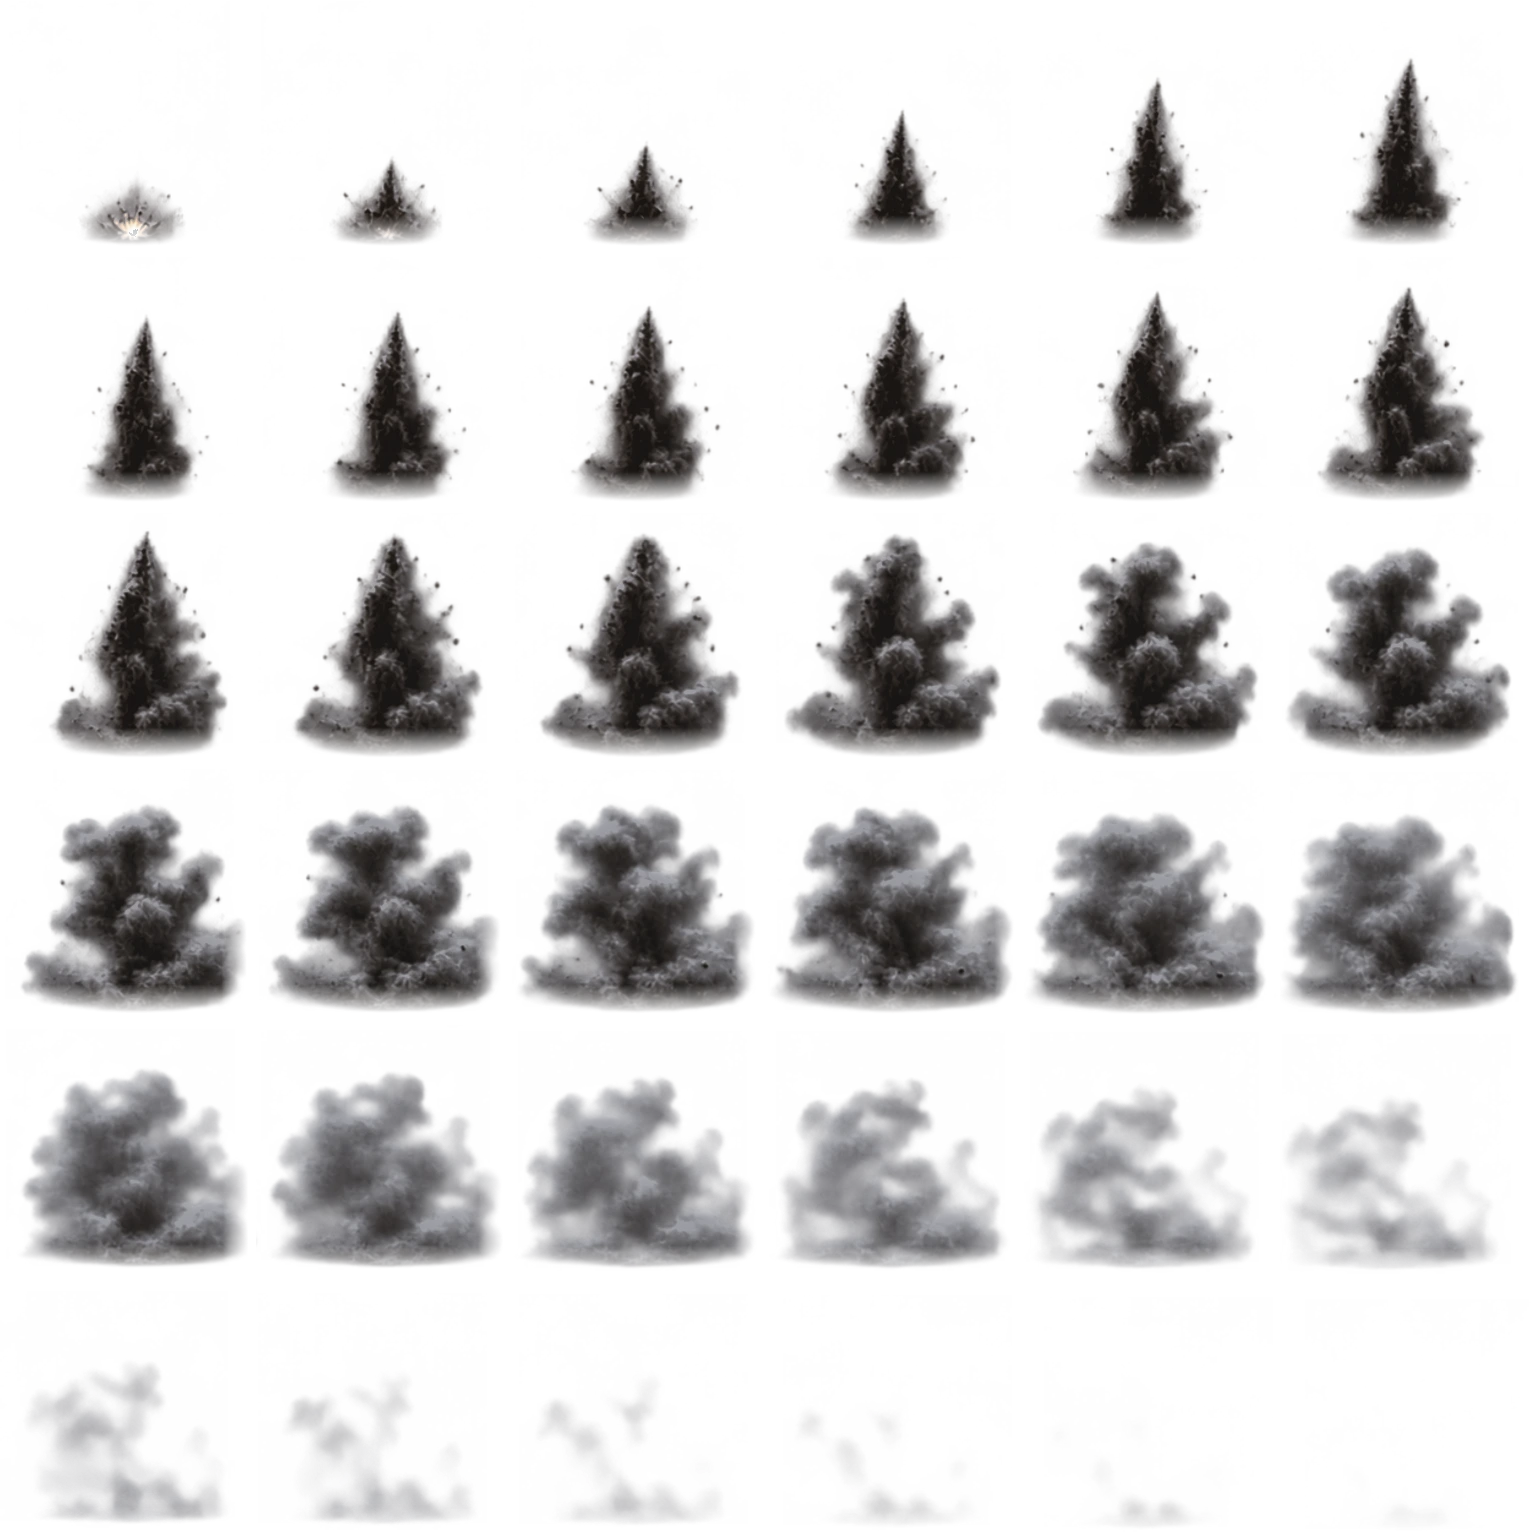
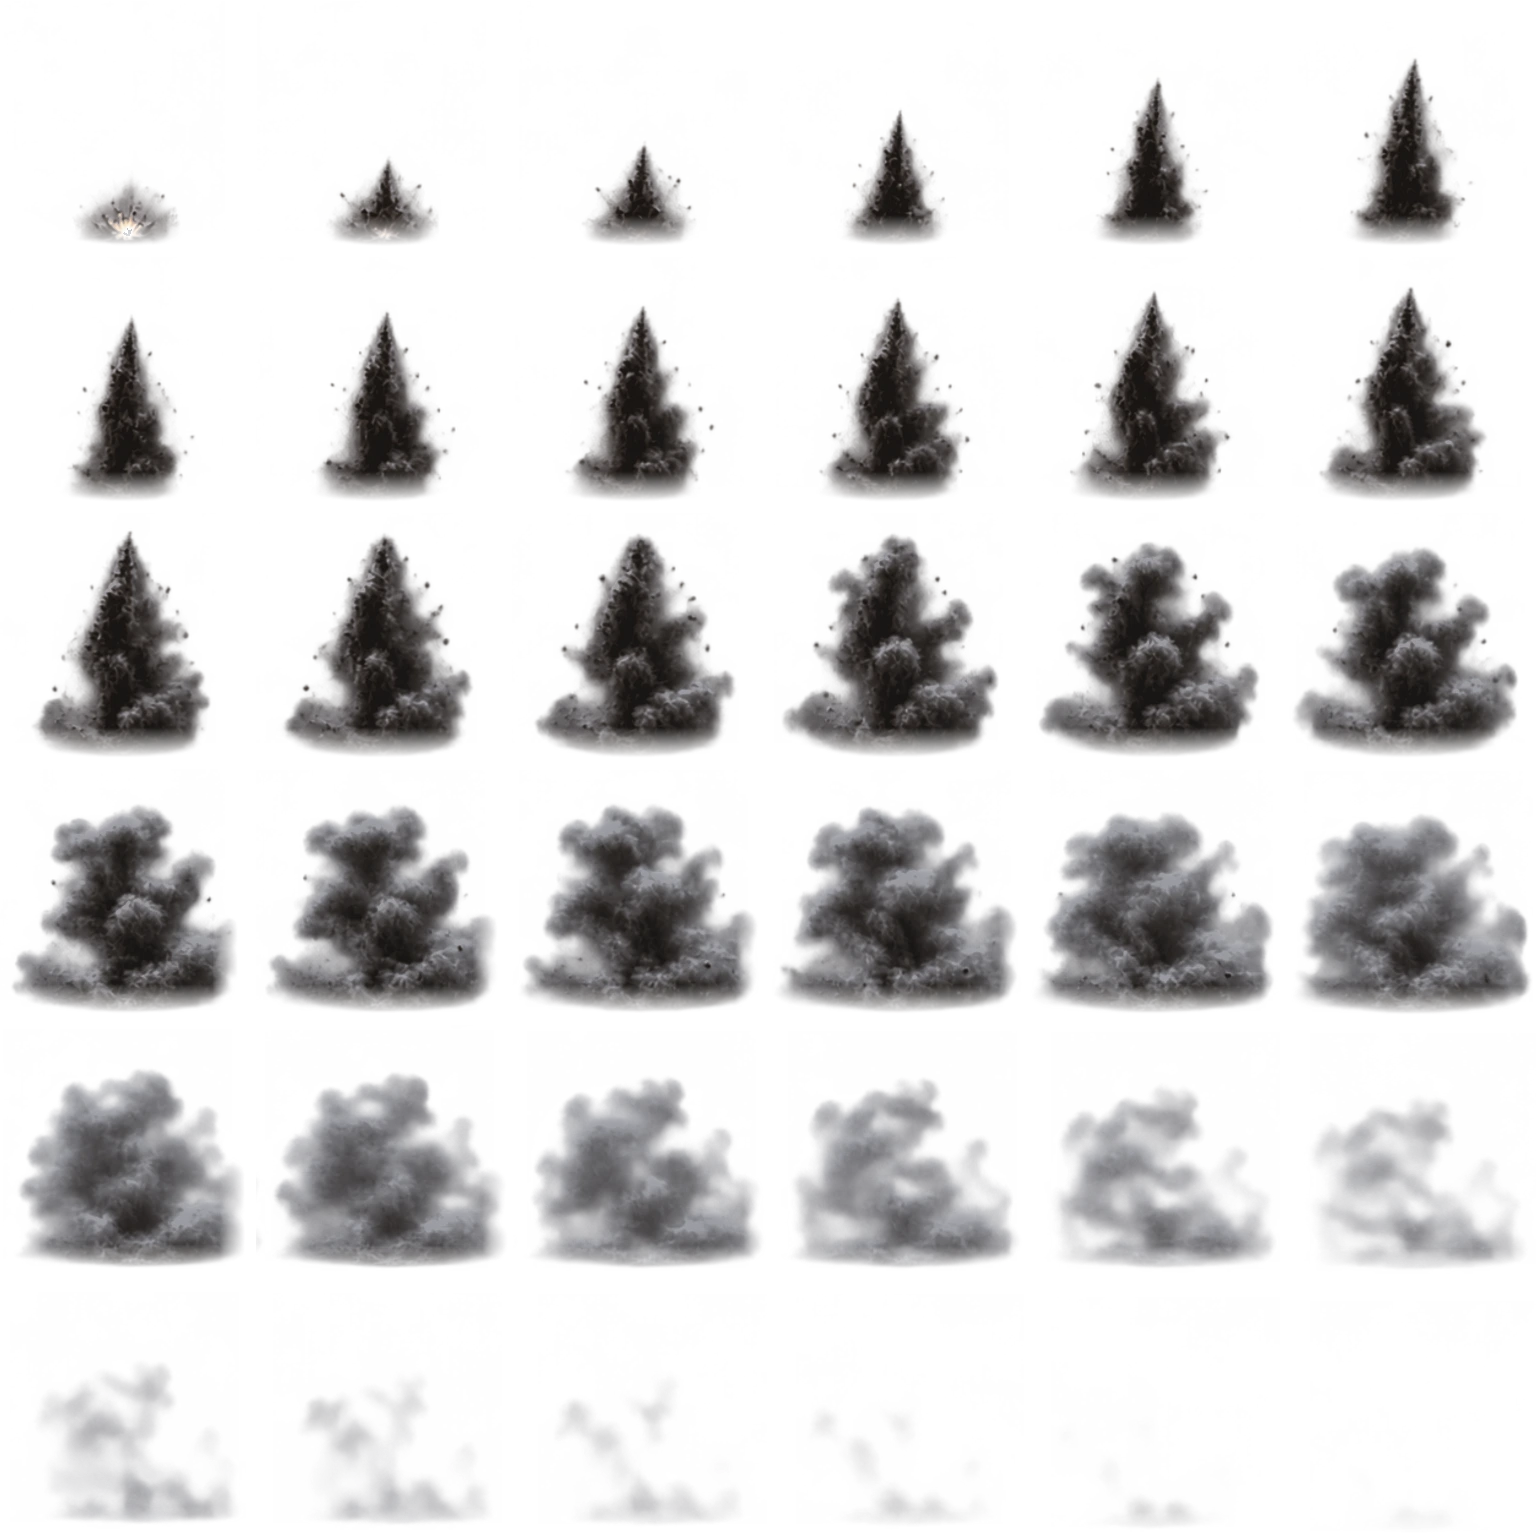
Smooth the impact animation: fix the source sawtooth, re-time, B-spline blending
Frame-by-frame analysis of the supplied sheet showed the cloud's horizontal
centre drifting 20-30 px left across each row of 6 frames and snapping back
at every row start (best neighbour shift +12 px at frames 5, 11, 17, 23, 29):
a sawtooth that read as jiggling stop motion.

- process-impact: centre every frame on its own alpha-weighted centre of
  mass (no smoothing, which re-introduced the row jumps); horizontal centre
  now 127.5 +/- 0.7 px for all frames, neighbour shifts 0-2 px
- Re-time the frames so each interval's length is proportional to how much
  its two frames actually differ, against a smoothed version of the original
  pace (burst/smoke envelope and total length kept); source times retained
- Blend in frame-index space with a cubic B-spline over four neighbours
  (weights sum to 1 and change smoothly through every frame)
- Verified by playing the animation at 30 fps: no spikes in frame-to-frame
  change, no horizontal jumps while visible

Claude-Session: https://claude.ai/code/session_01QRLYjet5i3xPK5hPmw42NL

diff --git a/src/render.js b/src/render.js
@@ -1540,21 +1540,31 @@ export class Renderer {
     const F = this.fx, M = F.meta, T = M.frameTimes, N = M.frameCount;
     const t = e.age;
     if (t >= M.duration) return;
-    let i = 0;
-    while (i < N - 1 && t >= T[i + 1]) i++;
-    const next = Math.min(i + 1, N - 1), blend = i < N - 1 ? (t - T[i]) / (T[i + 1] - T[i]) : 0;
     const opacity = Math.min(1, t / 0.035) * Math.min(1, (M.duration - t) / 1.2);
     const S = M.frameSize, cols = M.columns;
-    // crossfade the two nearest frames
+    // Blend in frame-index space with a cubic B-spline over four neighbouring frames: the weights always
+    // sum to 1 and change smoothly through every drawn frame, so there is no pulse as each one passes
+    // (a plain two-frame crossfade reads as stop motion). Premultiplied sum into a buffer.
     const b = F.buf.getContext('2d');
     b.globalCompositeOperation = 'source-over'; b.globalAlpha = 1;
     b.clearRect(0, 0, S, S);
-    b.globalAlpha = 1 - blend;
-    b.drawImage(F.img, (i % cols) * S, Math.floor(i / cols) * S, S, S, 0, 0, S, S);
-    if (next !== i && blend > 0.01) {
-      b.globalCompositeOperation = 'lighter'; b.globalAlpha = blend;
-      b.drawImage(F.img, (next % cols) * S, Math.floor(next / cols) * S, S, S, 0, 0, S, S);
+    let i = 0;
+    while (i < N - 1 && t >= T[i + 1]) i++;
+    const u = i < N - 1 ? i + (t - T[i]) / (T[i + 1] - T[i]) : N - 1;
+    const i0 = Math.floor(u), f = u - i0, f2 = f * f, f3 = f2 * f;
+    const bw = [(1 - f) ** 3 / 6, (3 * f3 - 6 * f2 + 4) / 6, (-3 * f3 + 3 * f2 + 3 * f + 1) / 6, f3 / 6];
+    const acc = new Map();
+    for (let q = 0; q < 4; q++) { const j = Math.max(0, Math.min(N - 1, i0 - 1 + q)); acc.set(j, (acc.get(j) || 0) + bw[q]); }
+    const ws = [...acc.entries()].filter(([, w]) => w > 0.002);
+    const wsum = ws.reduce((s2, [, w]) => s2 + w, 0);
+    let first = true;
+    for (const [j, w] of ws) {
+      b.globalCompositeOperation = first ? 'source-over' : 'lighter';
+      b.globalAlpha = w / wsum;
+      b.drawImage(F.img, (j % cols) * S, Math.floor(j / cols) * S, S, S, 0, 0, S, S);
+      first = false;
     }
+    b.globalAlpha = 1; b.globalCompositeOperation = 'source-over';
     // continuous motion layered over the drawn frames (eases in once the column has formed)
     const wind = this.atmo.wind, k = e.scale || 1;
     const late = Math.max(0, t - 0.35);
